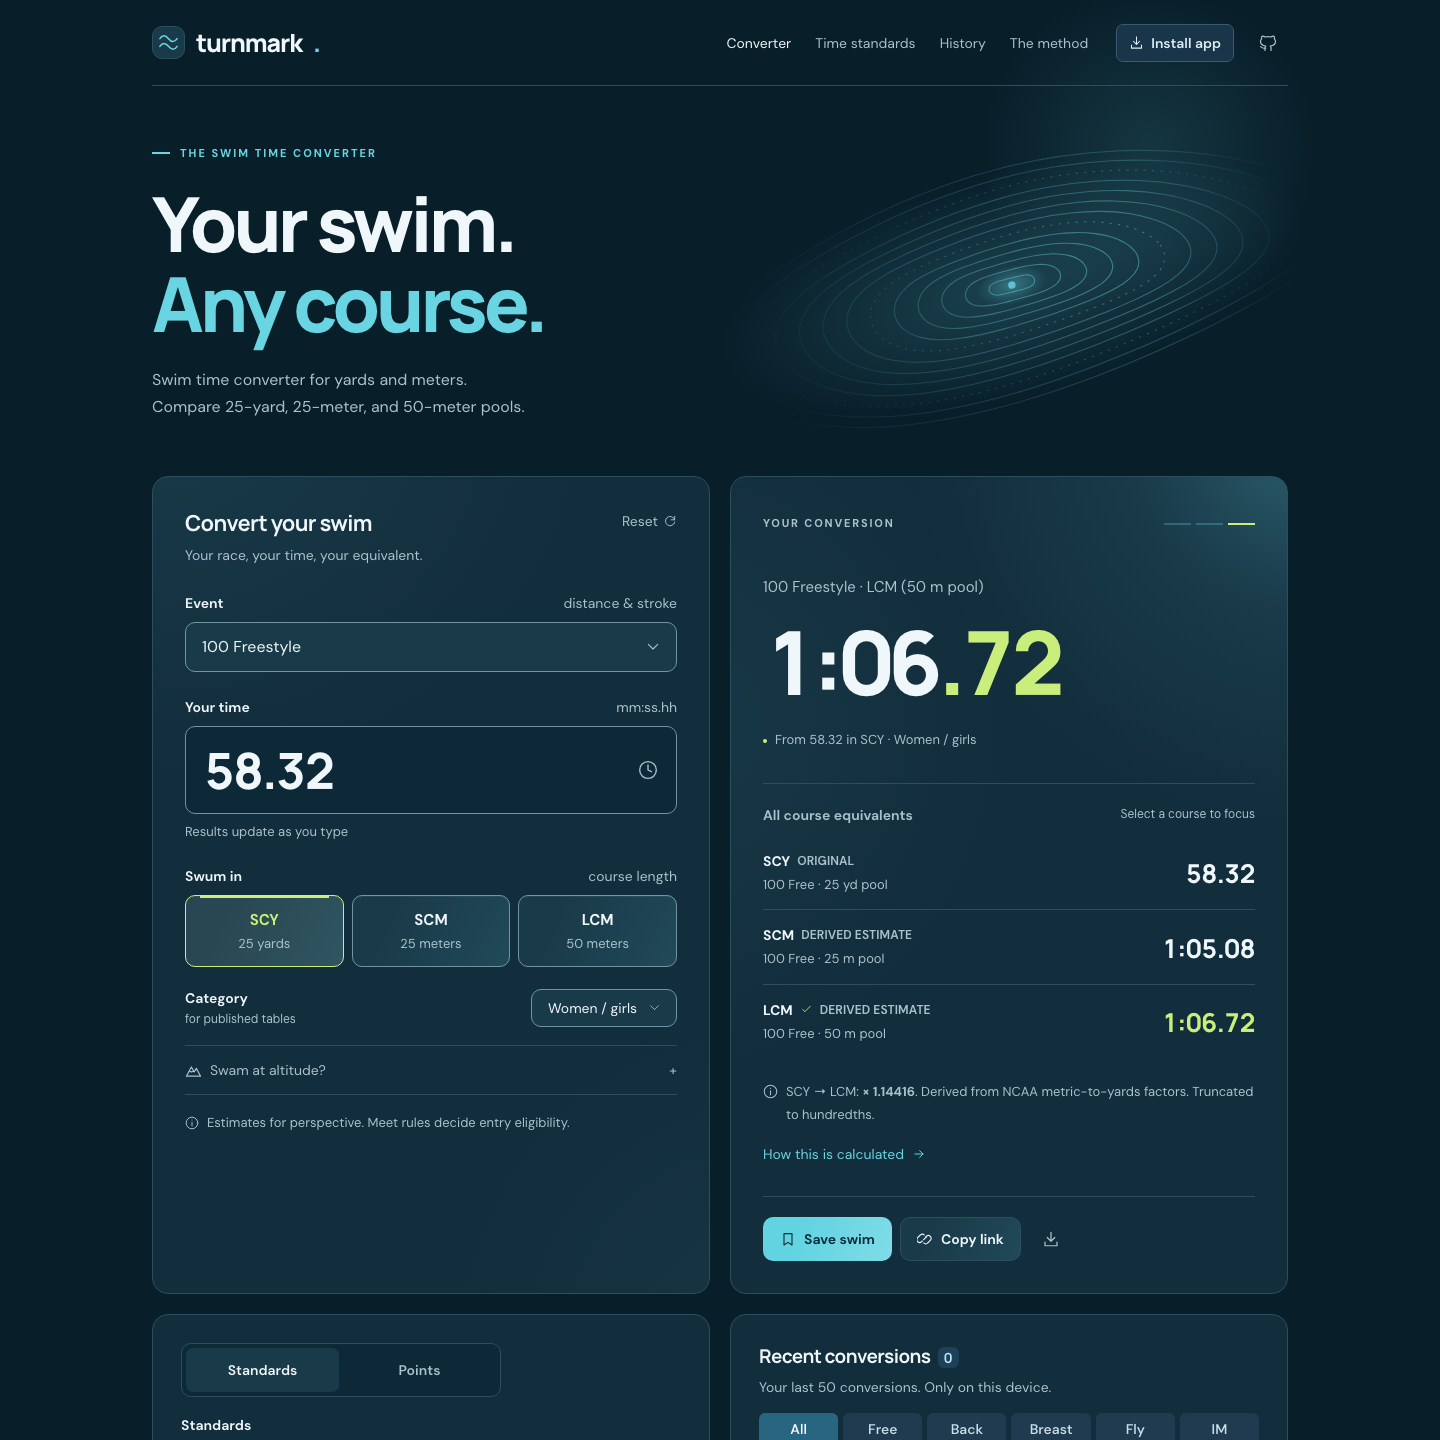
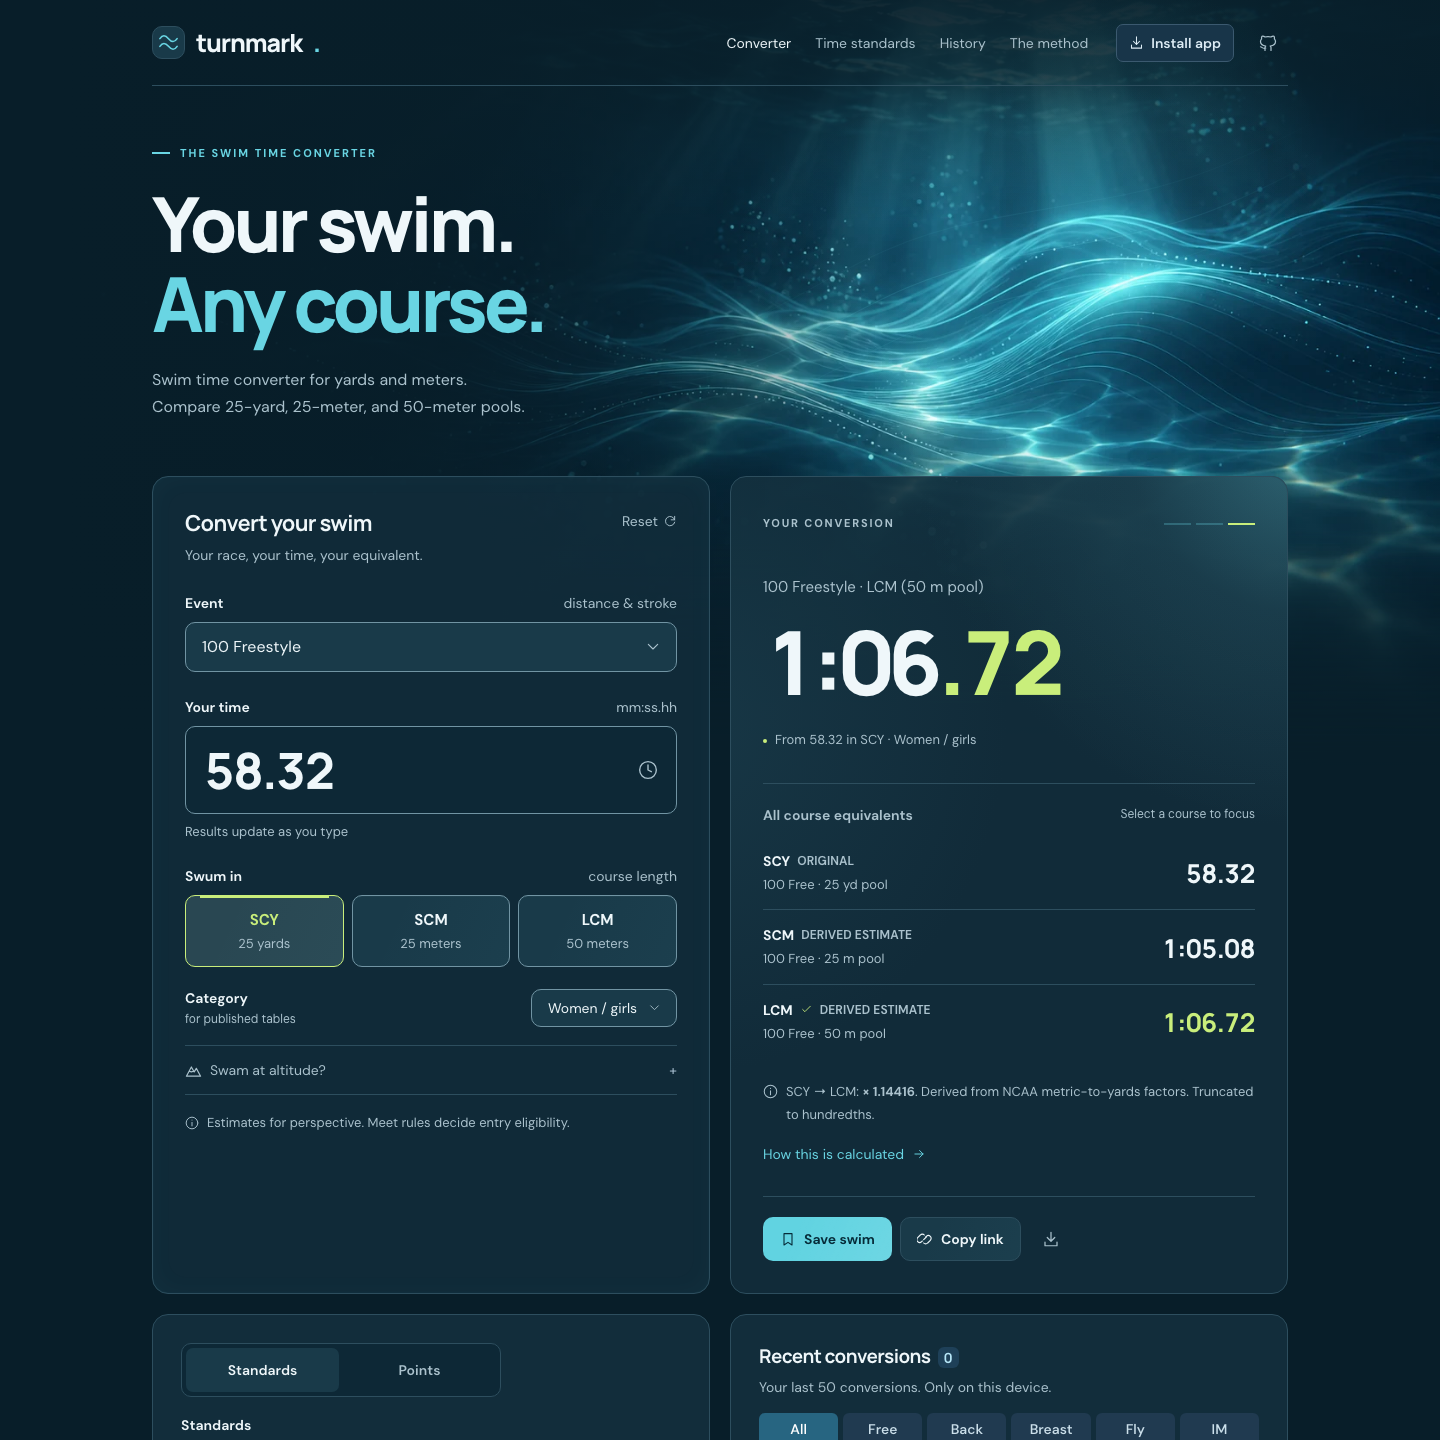
Blend supplied water artwork with ambient currents and restrained glass surfaces

Changed region(s): [[0.4062, 0.0312, 1.0, 0.4062]]

diff --git a/src/converter.css b/src/converter.css
@@ -24,6 +24,32 @@
   position: relative;
   z-index: 2;
 }
+.hero-atmosphere {
+  position: absolute;
+  inset: 0 0 auto;
+  height: 780px;
+  pointer-events: none;
+  background:
+    linear-gradient(
+      180deg,
+      color-mix(in srgb, var(--page) 95%, transparent),
+      color-mix(in srgb, var(--page) 85%, transparent) 76px,
+      transparent 220px
+    ),
+    linear-gradient(
+      90deg,
+      var(--page) 4%,
+      color-mix(in srgb, var(--page) 88%, transparent) 30%,
+      transparent 65%
+    ),
+    linear-gradient(0deg, var(--page), transparent 44%),
+    url("/images/water-ribbons.webp") center top / cover no-repeat;
+  opacity: 0.12;
+  mask-image: linear-gradient(to bottom, black 68%, transparent);
+}
+[data-theme="dark"] .hero-atmosphere {
+  opacity: 1;
+}
 .header-inner {
   max-width: 1136px;
   margin-inline: auto;
@@ -107,7 +133,7 @@
   right: 0;
   background: radial-gradient(
     ellipse closest-side at 77% 32%,
-    color-mix(in srgb, var(--accent) 13%, transparent),
+    color-mix(in srgb, var(--accent) 7%, transparent),
     transparent 100%
   );
 }
@@ -165,18 +191,10 @@
 }
 .input-panel {
   position: relative;
-  background:
-    radial-gradient(
-      ellipse 110% 65% at 2% -8%,
-      var(--surface-raised),
-      transparent 70%
-    ),
-    radial-gradient(
-      ellipse 80% 60% at 108% 108%,
-      color-mix(in srgb, var(--surface-raised) 65%, transparent),
-      transparent 70%
-    ),
-    var(--surface);
+  background: color-mix(in srgb, var(--surface) 84%, transparent);
+  box-shadow:
+    inset 0 0 28px color-mix(in srgb, var(--accent) 3%, transparent),
+    inset 0 0 1px color-mix(in srgb, var(--accent) 18%, transparent);
 }
 .results-panel {
   position: relative;
@@ -185,7 +203,7 @@
     radial-gradient(
       ellipse 95% 64% at 104% -5%,
       color-mix(in srgb, var(--surface-raised) 76%, var(--accent)) 0%,
-      var(--surface-raised) 34%,
+      color-mix(in srgb, var(--surface-raised) 72%, transparent) 34%,
       transparent 75%
     ),
     radial-gradient(
@@ -193,10 +211,7 @@
       color-mix(in srgb, var(--surface-raised) 80%, transparent),
       transparent 72%
     ),
-    var(--surface);
-  transition:
-    border-color 240ms ease,
-    box-shadow 240ms ease;
+    color-mix(in srgb, var(--surface) 88%, transparent);
   scroll-margin-top: 20px;
   container-type: inline-size;
 }
@@ -212,24 +227,7 @@
     color-mix(in srgb, var(--accent) 12%, transparent),
     transparent 72%
   );
-  opacity: 0;
-  transition: opacity 240ms ease;
-}
-.results-panel:focus-within {
-  border-color: color-mix(in srgb, var(--line) 65%, var(--accent));
-  box-shadow: 0 12px 36px color-mix(in srgb, var(--page) 30%, transparent);
-}
-.results-panel:focus-within::before {
-  opacity: 1;
-}
-@media (hover: hover) and (pointer: fine) {
-  .results-panel:hover {
-    border-color: color-mix(in srgb, var(--line) 65%, var(--accent));
-    box-shadow: 0 12px 36px color-mix(in srgb, var(--page) 30%, transparent);
-  }
-  .results-panel:hover::before {
-    opacity: 1;
-  }
+  opacity: 0.5;
 }
 .text-button {
   background: transparent;
@@ -382,12 +380,12 @@
   background-image: linear-gradient(
     115deg,
     transparent 15%,
-    color-mix(in srgb, var(--accent) 10%, transparent) 60%,
+    color-mix(in srgb, var(--accent) 3%, transparent) 60%,
     transparent
   );
   background-size: 180% 100%;
   background-position: 0% 50%;
-  box-shadow: inset 0 1px 0 color-mix(in srgb, var(--ink) 5%, transparent);
+  box-shadow: inset 0 1px 0 color-mix(in srgb, var(--ink) 3%, transparent);
   transition:
     background-position 320ms ease,
     border-color 240ms ease,
@@ -701,7 +699,7 @@
   background-image: linear-gradient(
     115deg,
     transparent 15%,
-    color-mix(in srgb, white 20%, transparent) 60%,
+    color-mix(in srgb, white 8%, transparent) 60%,
     transparent
   );
   color: var(--accent-ink);
@@ -713,7 +711,7 @@
   background-image: linear-gradient(
     115deg,
     transparent 15%,
-    color-mix(in srgb, var(--accent) 10%, transparent) 60%,
+    color-mix(in srgb, var(--accent) 3%, transparent) 60%,
     transparent
   );
   color: var(--ink);
@@ -726,8 +724,8 @@
 .secondary-button:focus-visible {
   background-position: 100% 50%;
   box-shadow:
-    inset 0 1px 0 color-mix(in srgb, var(--ink) 8%, transparent),
-    0 0 22px color-mix(in srgb, var(--accent) 15%, transparent);
+    inset 0 1px 0 color-mix(in srgb, var(--ink) 4%, transparent),
+    0 0 22px color-mix(in srgb, var(--accent) 7%, transparent);
 }
 @media (hover: hover) and (pointer: fine) {
   .course-picker button:hover,
@@ -735,8 +733,8 @@
   .secondary-button:not(:disabled):hover {
     background-position: 100% 50%;
     box-shadow:
-      inset 0 1px 0 color-mix(in srgb, var(--ink) 8%, transparent),
-      0 0 22px color-mix(in srgb, var(--accent) 15%, transparent);
+      inset 0 1px 0 color-mix(in srgb, var(--ink) 4%, transparent),
+      0 0 22px color-mix(in srgb, var(--accent) 7%, transparent);
   }
 }
 @media (prefers-reduced-motion: reduce) {
@@ -749,6 +747,7 @@
   }
 }
 @media (max-width: 760px), print {
+  .hero-atmosphere,
   .intro::before {
     display: none;
   }

diff --git a/src/lib/HeroCurrent.svelte b/src/lib/HeroCurrent.svelte
@@ -1,0 +1,70 @@
+<svg
+  class="hero-current"
+  viewBox="0 0 640 360"
+  fill="none"
+  aria-hidden="true"
+  focusable="false"
+>
+  <defs>
+    <linearGradient
+      id="current-stroke"
+      x1="0"
+      x2="640"
+      gradientUnits="userSpaceOnUse"
+    >
+      <stop stop-color="currentColor" stop-opacity="0" />
+      <stop offset=".6" stop-color="currentColor" stop-opacity=".2" />
+      <stop offset="1" stop-color="currentColor" stop-opacity="0" />
+    </linearGradient>
+    <radialGradient id="current-light">
+      <stop stop-color="currentColor" stop-opacity=".06" />
+      <stop offset="1" stop-color="currentColor" stop-opacity="0" />
+    </radialGradient>
+  </defs>
+  <ellipse cx="390" cy="145" rx="310" ry="160" fill="url(#current-light)" />
+  <g class="current-contours" stroke="url(#current-stroke)" stroke-width="1">
+    <path d="M-20 275C145 276 182 187 338 156S515 132 675 42" />
+    <path d="M-15 311C166 305 207 222 360 190S531 153 676 84" opacity=".6" />
+    <path d="M-10 235C131 236 168 150 319 120S503 101 670 7" opacity=".4" />
+  </g>
+</svg>
+
+<style>
+  .hero-current {
+    position: absolute;
+    width: 57%;
+    max-width: 680px;
+    right: 0;
+    top: 4px;
+    height: 100%;
+    color: var(--accent);
+    pointer-events: none;
+  }
+  .current-contours {
+    animation: current-appear 2.8s ease-out both;
+  }
+  @keyframes current-appear {
+    from {
+      opacity: 0;
+    }
+    to {
+      opacity: 1;
+    }
+  }
+  @media (max-width: 900px) {
+    .hero-current {
+      width: 47%;
+      opacity: 0.7;
+    }
+  }
+  @media (max-width: 760px), print {
+    .hero-current {
+      display: none;
+    }
+  }
+  @media (prefers-reduced-motion: reduce) {
+    .current-contours {
+      animation: none;
+    }
+  }
+</style>

diff --git a/src/App.svelte b/src/App.svelte
@@ -1,7 +1,7 @@
 <script lang="ts">
   import { onMount } from "svelte";
   import Icon from "./lib/Icon.svelte";
-  import HeroRipple from "./lib/HeroRipple.svelte";
+  import HeroCurrent from "./lib/HeroCurrent.svelte";
   import Masters from "./lib/Masters.svelte";
   import Install from "./lib/Install.svelte";
   import Theme from "./lib/Theme.svelte";
@@ -515,6 +515,7 @@
 
 <svelte:head><title>{site.title}</title></svelte:head>
 <a class="skip-link" href="#main">Skip to converter</a>
+<div class="hero-atmosphere" aria-hidden="true"></div>
 <header class="site-header">
   <div class="header-inner">
     <a class="wordmark" href="./" aria-label="Turnmark home"
@@ -559,7 +560,7 @@
         25-meter, and 50-meter pools.
       </p>
     </div>
-    <HeroRipple />
+    <HeroCurrent />
   </section>
 
   <section

diff --git a/docs/WEB_SURFACES_REVIEW.md b/docs/WEB_SURFACES_REVIEW.md
@@ -1,17 +1,24 @@
 # Water, light and interaction
 
-The converter header now has a decorative inline SVG with uneven water contours,
-a small cyan origin and three outward ripples. Motion ends after 4.8 seconds;
-reduced-motion settings retain the still illustration. A radial wash fades into
-the header. The illustration and wash are hidden at 760 pixels and below so the
-mobile form stays close to the heading. There is no image download, animation
-library, pointer tracker or calculation change.
+The converter header combines a static water-light background with three faint
+open SVG currents. The user-supplied `Luminous Underwater Wave Ribbons.png`
+(1672 × 941) is encoded as `public/images/water-ribbons.webp` with cwebp quality 88,
+method 6 and metadata removed: 80,280 bytes. The original PNG is untouched.
+The darker blend behind navigation and copy preserves readability; light mode
+uses a much fainter treatment. The background is included in the offline build.
 
-Input and result cards use layered radial lighting; the result has the stronger
-upper-corner glow. Fine-pointer hover and keyboard focus add a small glow without
-moving the card. Action/course buttons shift their sheen. Reduced motion disables
-those transitions. Course rows have a wider rounded hit/hover area while their
-labels, times and dividers keep the existing alignment.
+The open currents fade in over 2.8 seconds, then stay still; reduced motion shows
+them immediately. Water and currents are hidden at 760 pixels and below to keep
+the mobile form close to the heading. No animation library, pointer tracker,
+shader, new dependency or calculation change is involved.
+
+The input card has a very subtle symmetric inner-edge glow. Both cards are
+slightly translucent; the result retains the stronger upper-corner radial light.
+Controls keep solid readable surfaces. The conversion card keeps a static,
+slightly brighter default glow with no container hover/focus effect. Fine-pointer
+hover and keyboard focus on action/course buttons add a faint sheen and glow;
+reduced motion disables those transitions. Course rows have a wider rounded
+hit/hover area while labels, times and dividers keep their alignment.
 
 Three decorative marks mirror the selected SCY, SCM or LCM result. The top source
 chip is removed; the calculation explanation and official NCAA source remain in
@@ -26,6 +33,6 @@ overflow, reduced motion and finite animation. Screenshots use actual calculated
 values, not illustrative conversion ratios. This web-only change needs no native
 rebuild.
 
-![Dark converter with ripple and pooled cyan light](screenshots/web-liquid-surfaces-dark.png)
+![Dark converter with ambient currents and pooled cyan light](screenshots/web-liquid-surfaces-dark.png)
 
 ![Light appearance and result controls](screenshots/web-liquid-surfaces-light.png)
